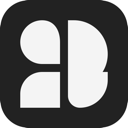
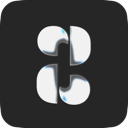
feat: refresh extension branding and plans

diff --git a/extension/popup.html b/extension/popup.html
@@ -10,7 +10,7 @@
     <main class="app-shell">
       <header class="topbar">
         <button class="brand" data-action="home" type="button" aria-label="Главная Virgo">
-          <span class="brand-mark" aria-hidden="true"><i></i><i></i><i></i><i></i></span>
+          <img class="brand-mark" src="assets/virgo-logo.png" alt="" aria-hidden="true">
           <span class="brand-name">Virgo</span>
           <span class="brand-version" id="version">v1.0.0</span>
         </button>
@@ -24,7 +24,7 @@
       <p class="notice" id="notice" role="status" hidden></p>
 
       <section class="screen onboarding" data-screen="onboarding" hidden>
-        <div class="hero-logo" aria-hidden="true"><i></i><i></i><i></i><i></i></div>
+        <img class="hero-logo" src="assets/virgo-logo.png" alt="" aria-hidden="true">
         <div class="onboarding-actions">
           <button class="primary-button" data-action="start-pairing" type="button">Присоединиться через Telegram</button>
           <button class="secondary-button" data-action="start-pairing" type="button">У меня уже есть аккаунт</button>
@@ -75,20 +75,34 @@
           <button class="tab active" data-action="tariffs" type="button" role="tab">Тариф</button>
         </div>
         <h1>Выберите тариф</h1>
-        <p class="section-lead">Оплата продлевает доступ на 30 дней.</p>
+        <p class="section-lead">Выберите подходящий период доступа.</p>
+        <article class="tariff-card trip-card">
+          <div class="tariff-heading">
+            <h2>Virgo TRIP</h2>
+          </div>
+          <ul class="tariff-benefits">
+            <li>Быстрое подключение</li>
+            <li>До 2 устройств</li>
+            <li>Поддержка 24/7</li>
+          </ul>
+          <div class="tariff-action-row">
+            <div class="tariff-footer"><strong>149 ₽ / 15 дней</strong></div>
+            <button class="danger-button tariff-select-button" data-action="payment-placeholder" type="button">Выбрать TRIP</button>
+          </div>
+        </article>
         <article class="tariff-card flow-card recommended">
           <div class="tariff-heading">
-            <h2>Тариф Flow</h2>
+            <h2>Virgo FLOW</h2>
             <span class="recommend-badge">Рекомендуем</span>
           </div>
           <ul class="tariff-benefits">
-            <li>До 3 активных устройств</li>
+            <li>До 5 устройств</li>
             <li>Максимальная скорость для видео и игр</li>
-            <li>Выбор доступной VPN-локации</li>
+            <li>Автовыбор лучшего сервера</li>
           </ul>
           <div class="tariff-action-row">
             <div class="tariff-footer"><strong>299 ₽ / 30 дней</strong></div>
-            <button class="danger-button tariff-select-button" data-action="payment-placeholder" type="button">Выбрать Flow</button>
+            <button class="danger-button tariff-select-button" data-action="payment-placeholder" type="button">Выбрать FLOW</button>
           </div>
         </article>
         <p class="small-copy">Оплата появится после завершения юридической и фискальной настройки.</p>

diff --git a/extension/popup.css b/extension/popup.css
@@ -21,9 +21,11 @@ button { color: inherit; }
 .app-shell {
   position: relative;
   width: 390px;
+  height: 590px;
   min-height: 590px;
   padding: 18px 20px 22px;
-  overflow: hidden;
+  overflow-x: hidden;
+  overflow-y: auto;
   border: 1px solid rgba(255,255,255,.38);
   border-radius: 0;
   box-shadow: inset 0 0 0 1px rgba(0,0,0,.55), 0 0 18px rgba(255,255,255,.08);
@@ -37,14 +39,9 @@ button { color: inherit; }
 .brand-name { font-size: 34px; line-height: 1; font-weight: 700; letter-spacing: -.04em; }
 .brand-version { color: #aaa; font: 14px ui-monospace, SFMono-Regular, Menlo, monospace; }
 
-.brand-mark, .hero-logo { position: relative; display: grid; grid-template-columns: repeat(2, 1fr); gap: 3px; }
-.brand-mark { width: 34px; height: 42px; }
-.hero-logo { width: 112px; height: 138px; gap: 7px; filter: drop-shadow(6px 5px 6px rgba(255,255,255,.28)); }
-.brand-mark i, .hero-logo i { display: block; background: #eee; }
-.brand-mark i:nth-child(1), .hero-logo i:nth-child(1) { border-radius: 50% 50% 0 50%; }
-.brand-mark i:nth-child(2), .hero-logo i:nth-child(2) { border-radius: 0 50% 50% 0; }
-.brand-mark i:nth-child(3), .hero-logo i:nth-child(3) { border-radius: 50% 0 0 50%; }
-.brand-mark i:nth-child(4), .hero-logo i:nth-child(4) { border-radius: 0 50% 50% 50%; }
+.brand-mark, .hero-logo { display: block; object-fit: contain; }
+.brand-mark { width: 30px; height: 42px; }
+.hero-logo { width: 97px; height: 138px; filter: drop-shadow(6px 5px 6px rgba(255,255,255,.28)); }
 
 .icon-nav { display: flex; gap: 8px; }
 .round-icon { display: grid; place-items: center; width: 38px; height: 38px; padding: 0; border: 0; border-radius: 50%; background: #050505; font-weight: 800; cursor: pointer; }
@@ -112,6 +109,7 @@ button { color: inherit; }
 .tariffs h1 { margin-bottom: 8px; font-size: 32px; }
 .section-lead { margin: 0 10px 18px; color: #ddd; font-size: 14px; }
 .tariff-card { position: relative; padding: 22px 20px 20px; border-radius: 25px; background: #151515; text-align: left; }
+.tariff-card + .tariff-card { margin-top: 14px; }
 .tariff-card.recommended { border: 2px solid #dedede; }
 .flow-card { padding: 22px 20px 21px; background: linear-gradient(145deg, #171717, #202020); box-shadow: 0 12px 26px rgba(0,0,0,.22); }
 .tariff-heading { display: flex; align-items: center; justify-content: space-between; gap: 12px; }
